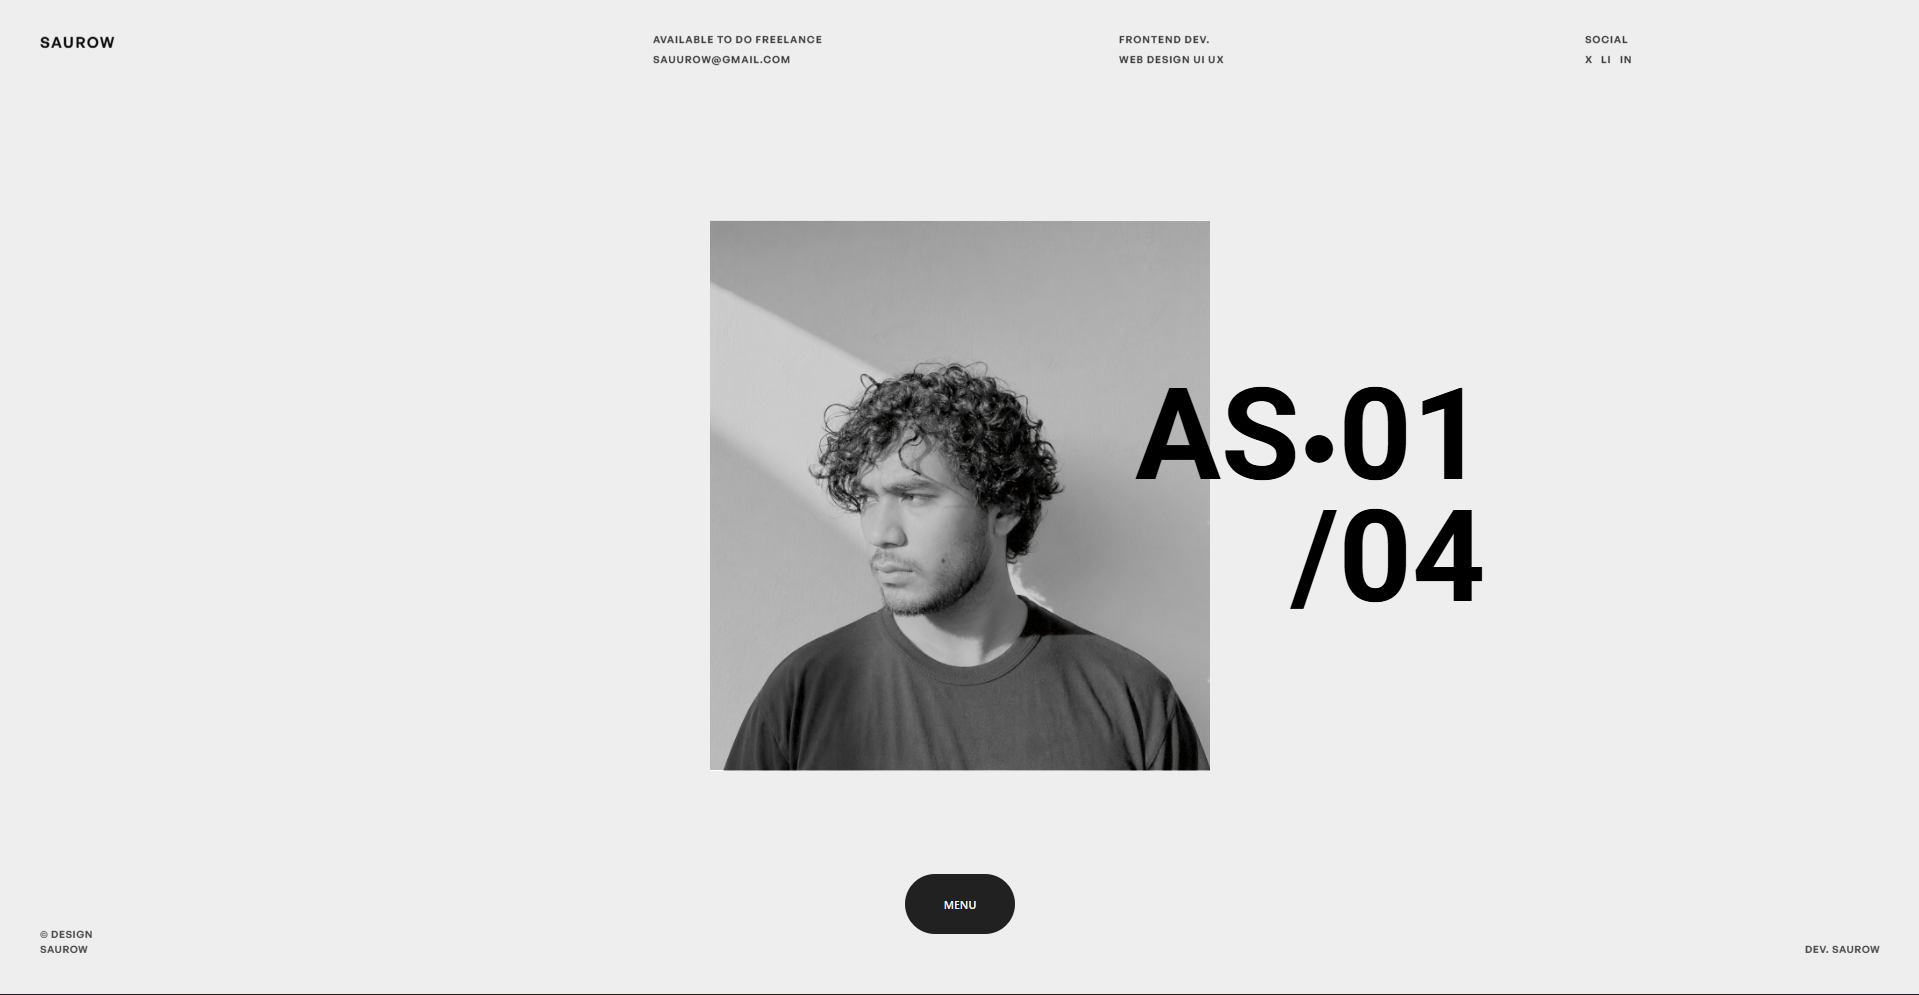
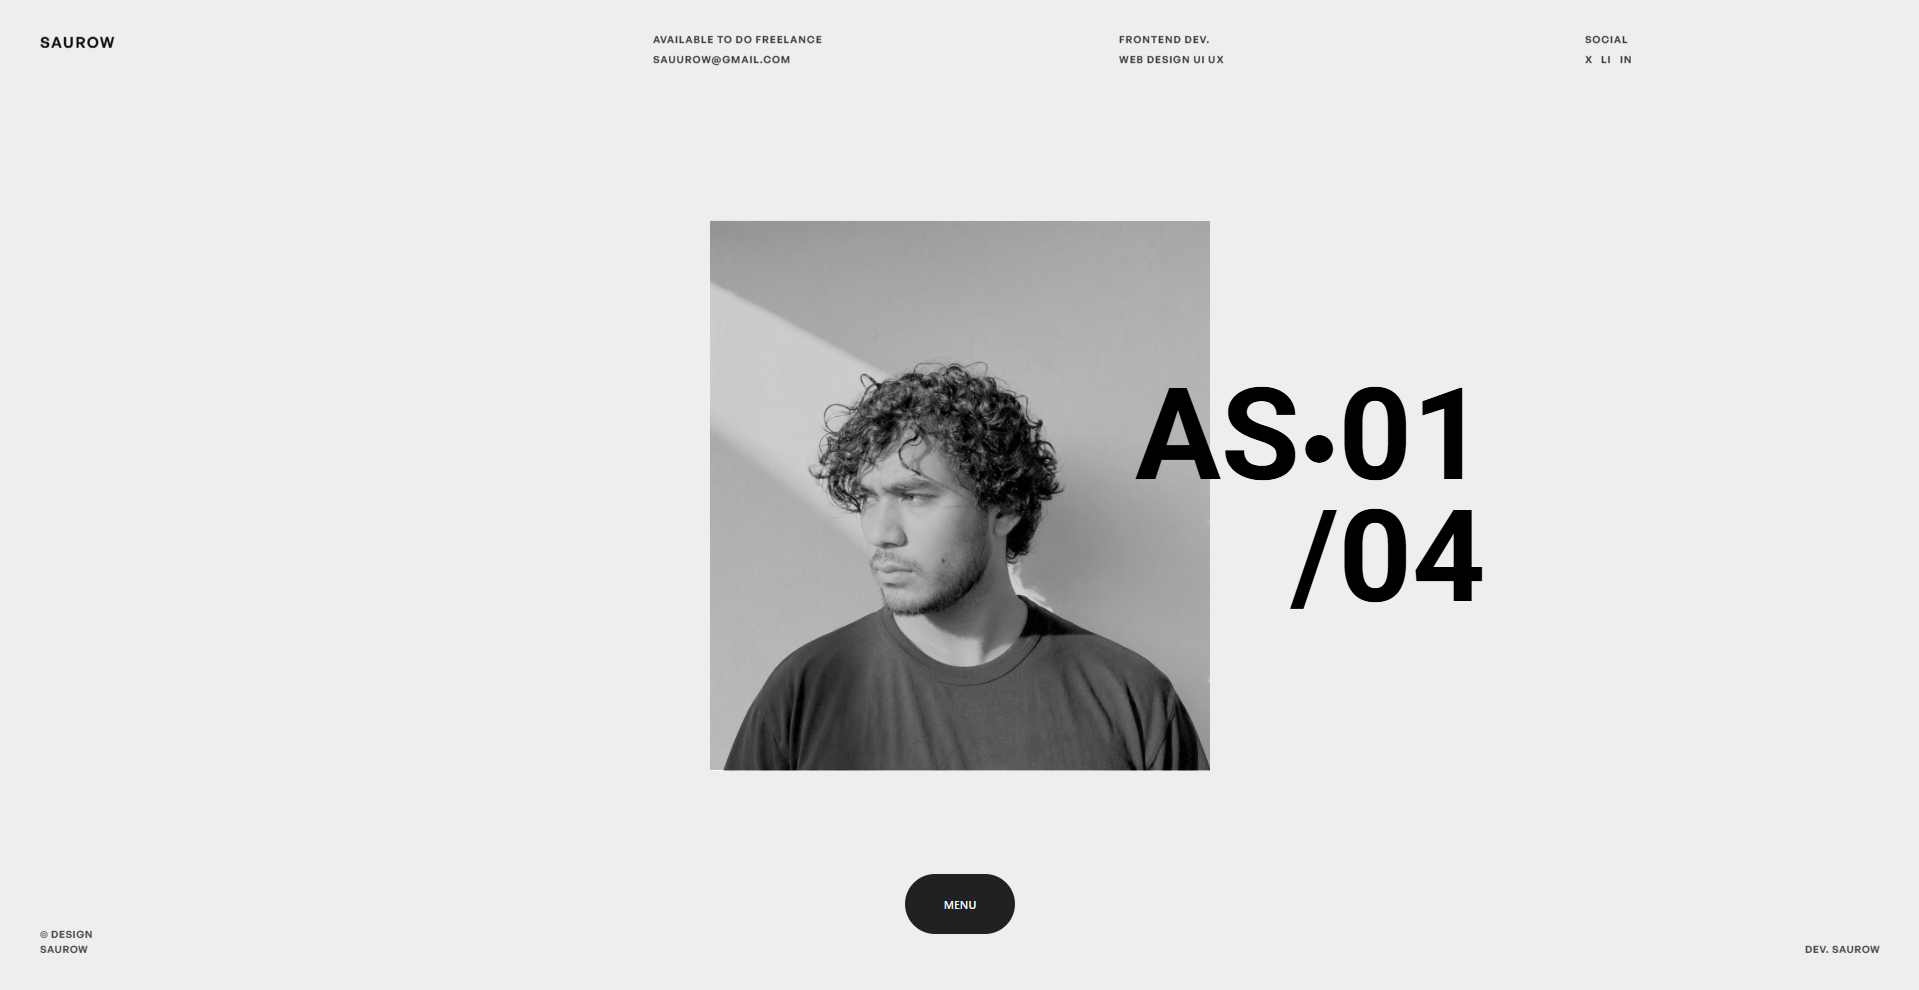
feat: add articles data module and fold image asset

diff --git a/src/lib/articles.ts b/src/lib/articles.ts
@@ -52,7 +52,7 @@ export const ARTICLES: Article[] = [
   },
   {
     slug: "fold",
-    title: "Paper Fold: 3D Mesh Deformation with Three.js TSL",
+    title: "Three.js (TSL): Mesh Folding",
     kicker: "WEBGPU / TSL",
     excerpt:
       "Engineering interactive 3D card folding, dynamic trigonometric depth curvature, and backface texture correction using Three.js Shading Language (TSL) and WebGPU.",
